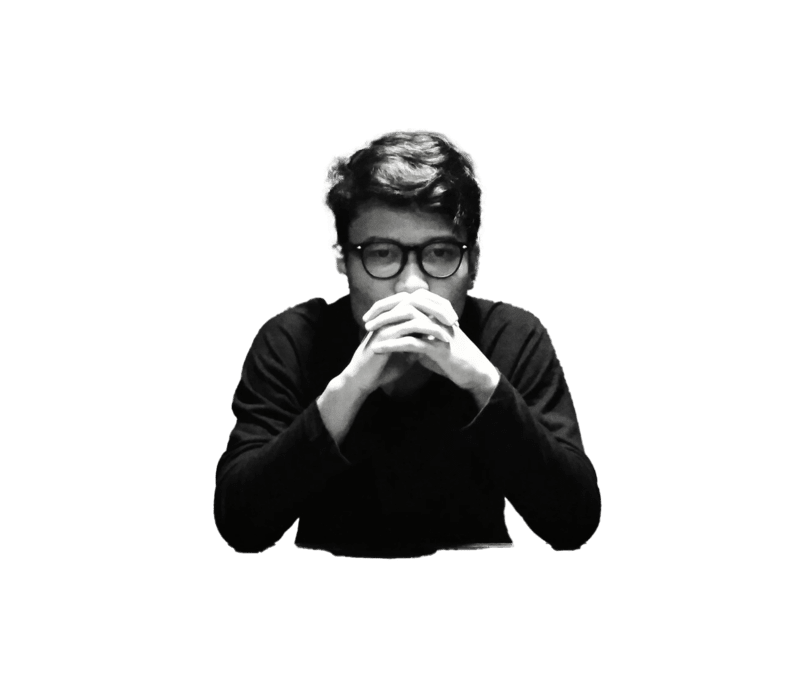
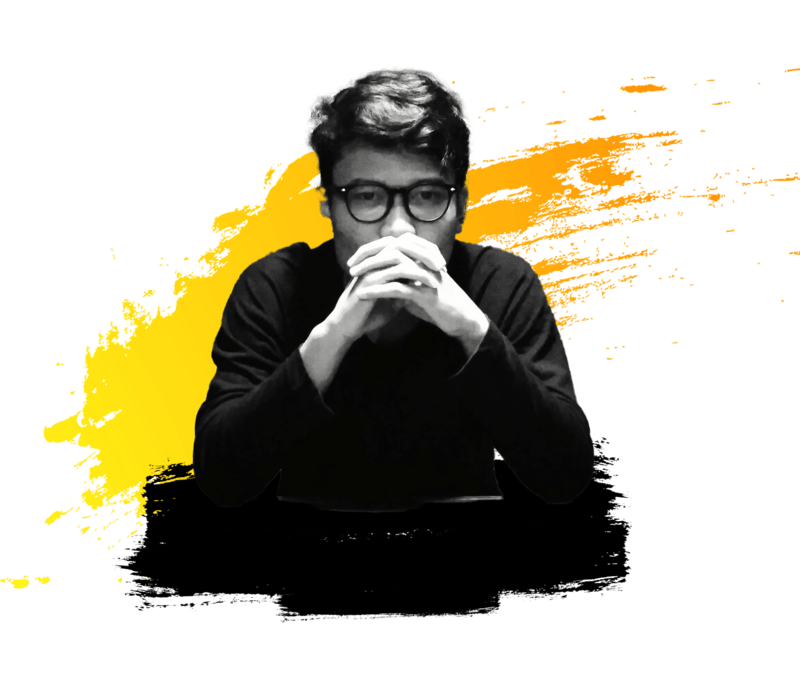
ubah hero foto & upgrade form

diff --git a/index.html b/index.html
@@ -69,7 +69,7 @@
         <section class="hero" id="home">
           <figure class="hero-banner">
             <picture>
-              <source srcset="./images/hero.png" media="(min-width: 768px)" />
+              <source srcset="./images/heroc.png" media="(min-width: 768px)" />
               <source srcset="./images/hero-md.png" media="(min-width: 500px)" />
               <img src="./images/hero-sm.png" alt="A man in a blue shirt with a happy expression" class="w-100" />
             </picture>
@@ -508,13 +508,12 @@
             </ul>
           </div>
 
-          <form action="" class="contact-form">
-            <p style="color: red; text-align: center">Note: Dalam masa perbaikan!</p>
+          <form action="https://script.google.com/macros/s/AKfycbxVXvJvAD2Lffl8pTtLmhJFKMDbNHmE7jMX_58XXX6V_GPRPWAV8kbXGLeMeK_NxT00zw/exec" id="my-form" name="contact-form" class="contact-form" method="POST">
             <div class="form-wrapper">
               <label for="name" class="form-label">Nama</label>
 
               <div class="input-wrapper">
-                <input type="text" name="name" id="name" required placeholder="example" class="input-field" />
+                <input type="text" name="nama" id="name" required placeholder="example" class="input-field" />
 
                 <ion-icon name="person-circle"></ion-icon>
               </div>
@@ -530,7 +529,7 @@
               </div>
             </div>
 
-            <div class="form-wrapper">
+            <!-- <div class="form-wrapper">
               <label for="phone" class="form-label">No. Handphone</label>
 
               <div class="input-wrapper">
@@ -538,13 +537,13 @@
 
                 <ion-icon name="call"></ion-icon>
               </div>
-            </div>
+            </div> -->
 
             <div class="form-wrapper">
               <label for="message" class="form-label">Pesan</label>
 
               <div class="input-wrapper">
-                <textarea name="message" id="message" required placeholder="Tulis Pesan..." class="input-field"></textarea>
+                <textarea name="pesan" id="message" required placeholder="Tulis Pesan..." class="input-field"></textarea>
 
                 <ion-icon name="chatbubbles"></ion-icon>
               </div>
@@ -588,5 +587,27 @@
   -->
     <script type="module" src="https://unpkg.com/ionicons@5.5.2/dist/ionicons/ionicons.esm.js"></script>
     <script nomodule src="https://unpkg.com/ionicons@5.5.2/dist/ionicons/ionicons.js"></script>
+
+    <!-- send form to google spreedsheet -->
+    <script>
+      window.addEventListener("load", function () {
+        const form = document.getElementById("my-form");
+        form.addEventListener("submit", function (e) {
+          e.preventDefault();
+          const data = new FormData(form);
+          const action = e.target.action;
+          fetch(action, {
+            method: "POST",
+            body: data,
+          }).then(() => {
+            swal("Terimakasih!", "Pesan anda sudah saya terima", "success");
+            form.reset();
+          });
+        });
+      });
+    </script>
+
+    <!-- sweetalert -->
+    <script src="https://unpkg.com/sweetalert/dist/sweetalert.min.js"></script>
   </body>
 </html>
